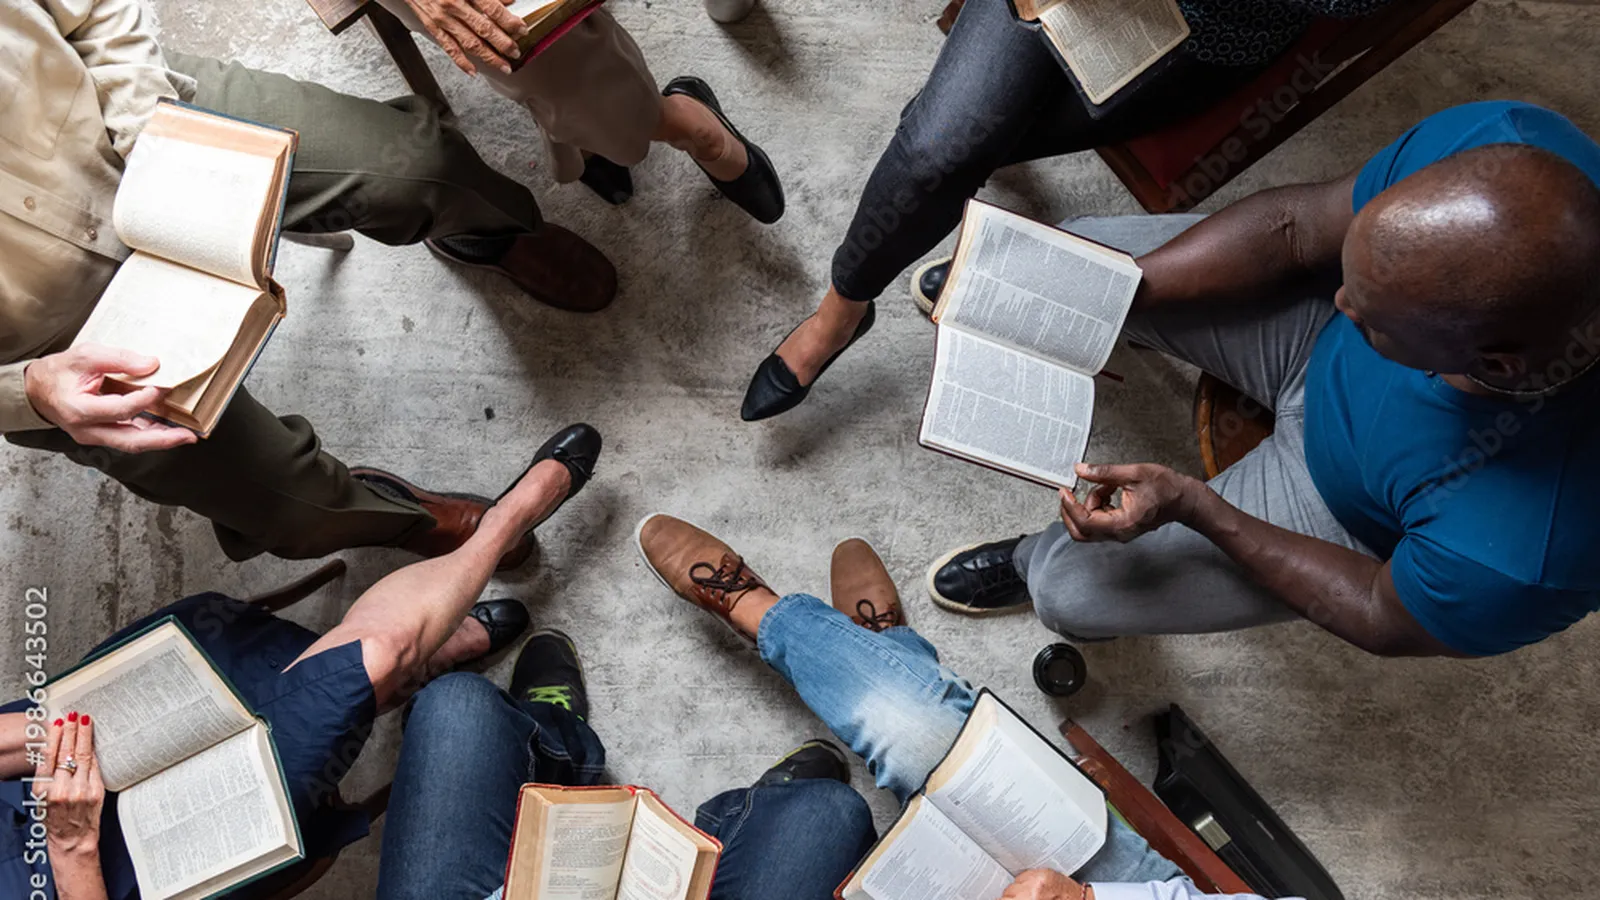
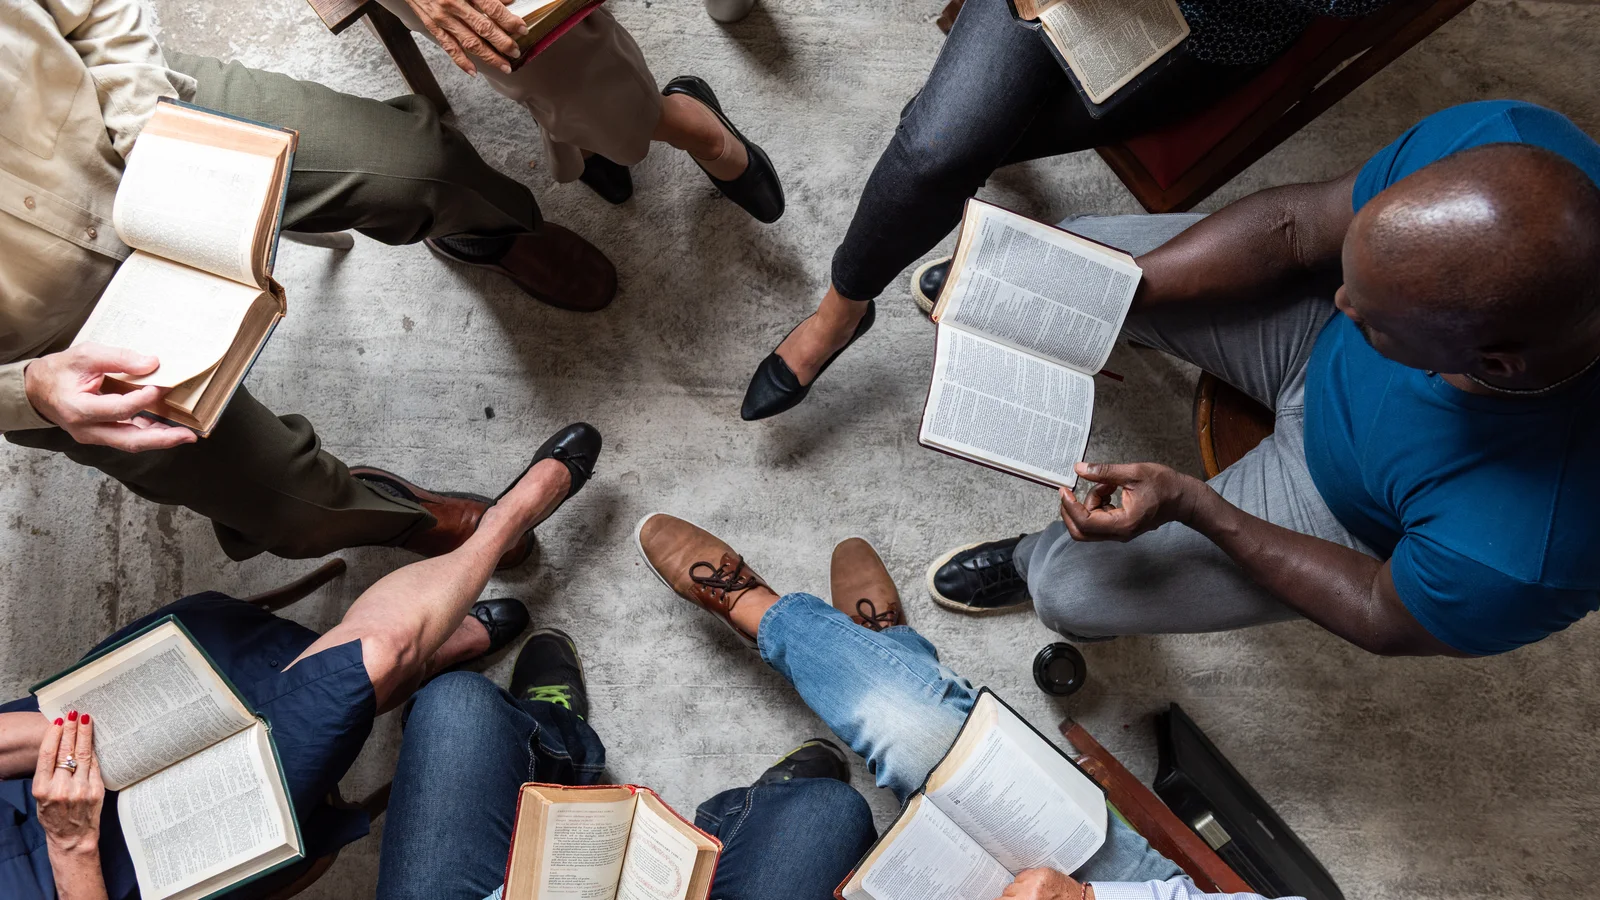
Swap the ARC background to the licensed master
AdobeStock 1986643502, licensed: 6000x4004 instead of the 1000px comp,
and no watermark. Same centre crop, re-encoded at higher quality.

diff --git a/deck/index.html b/deck/index.html
@@ -570,7 +570,7 @@
       <!-- §12 ARC -->
       <section class="seq" id="sq-arc">
         <!-- the deck's circle motif, restated in the present: a debut's first audience is
-             a circle of readers. Preview asset — license AdobeStock 1986643502 if it stays. -->
+             a circle of readers. Licensed AdobeStock 1986643502, 6000x4004 master. -->
         <img class="arcbg" id="arc-bg" src="arc-circle.webp" alt="">
         <div class="robotcard step" id="arc-img"><img src="robot.webp" alt="An ARC machine looming over a rubber duck"></div>
         <div class="typo" style="left:680px; right:0; position:absolute; padding:0 100px 0 0;">
